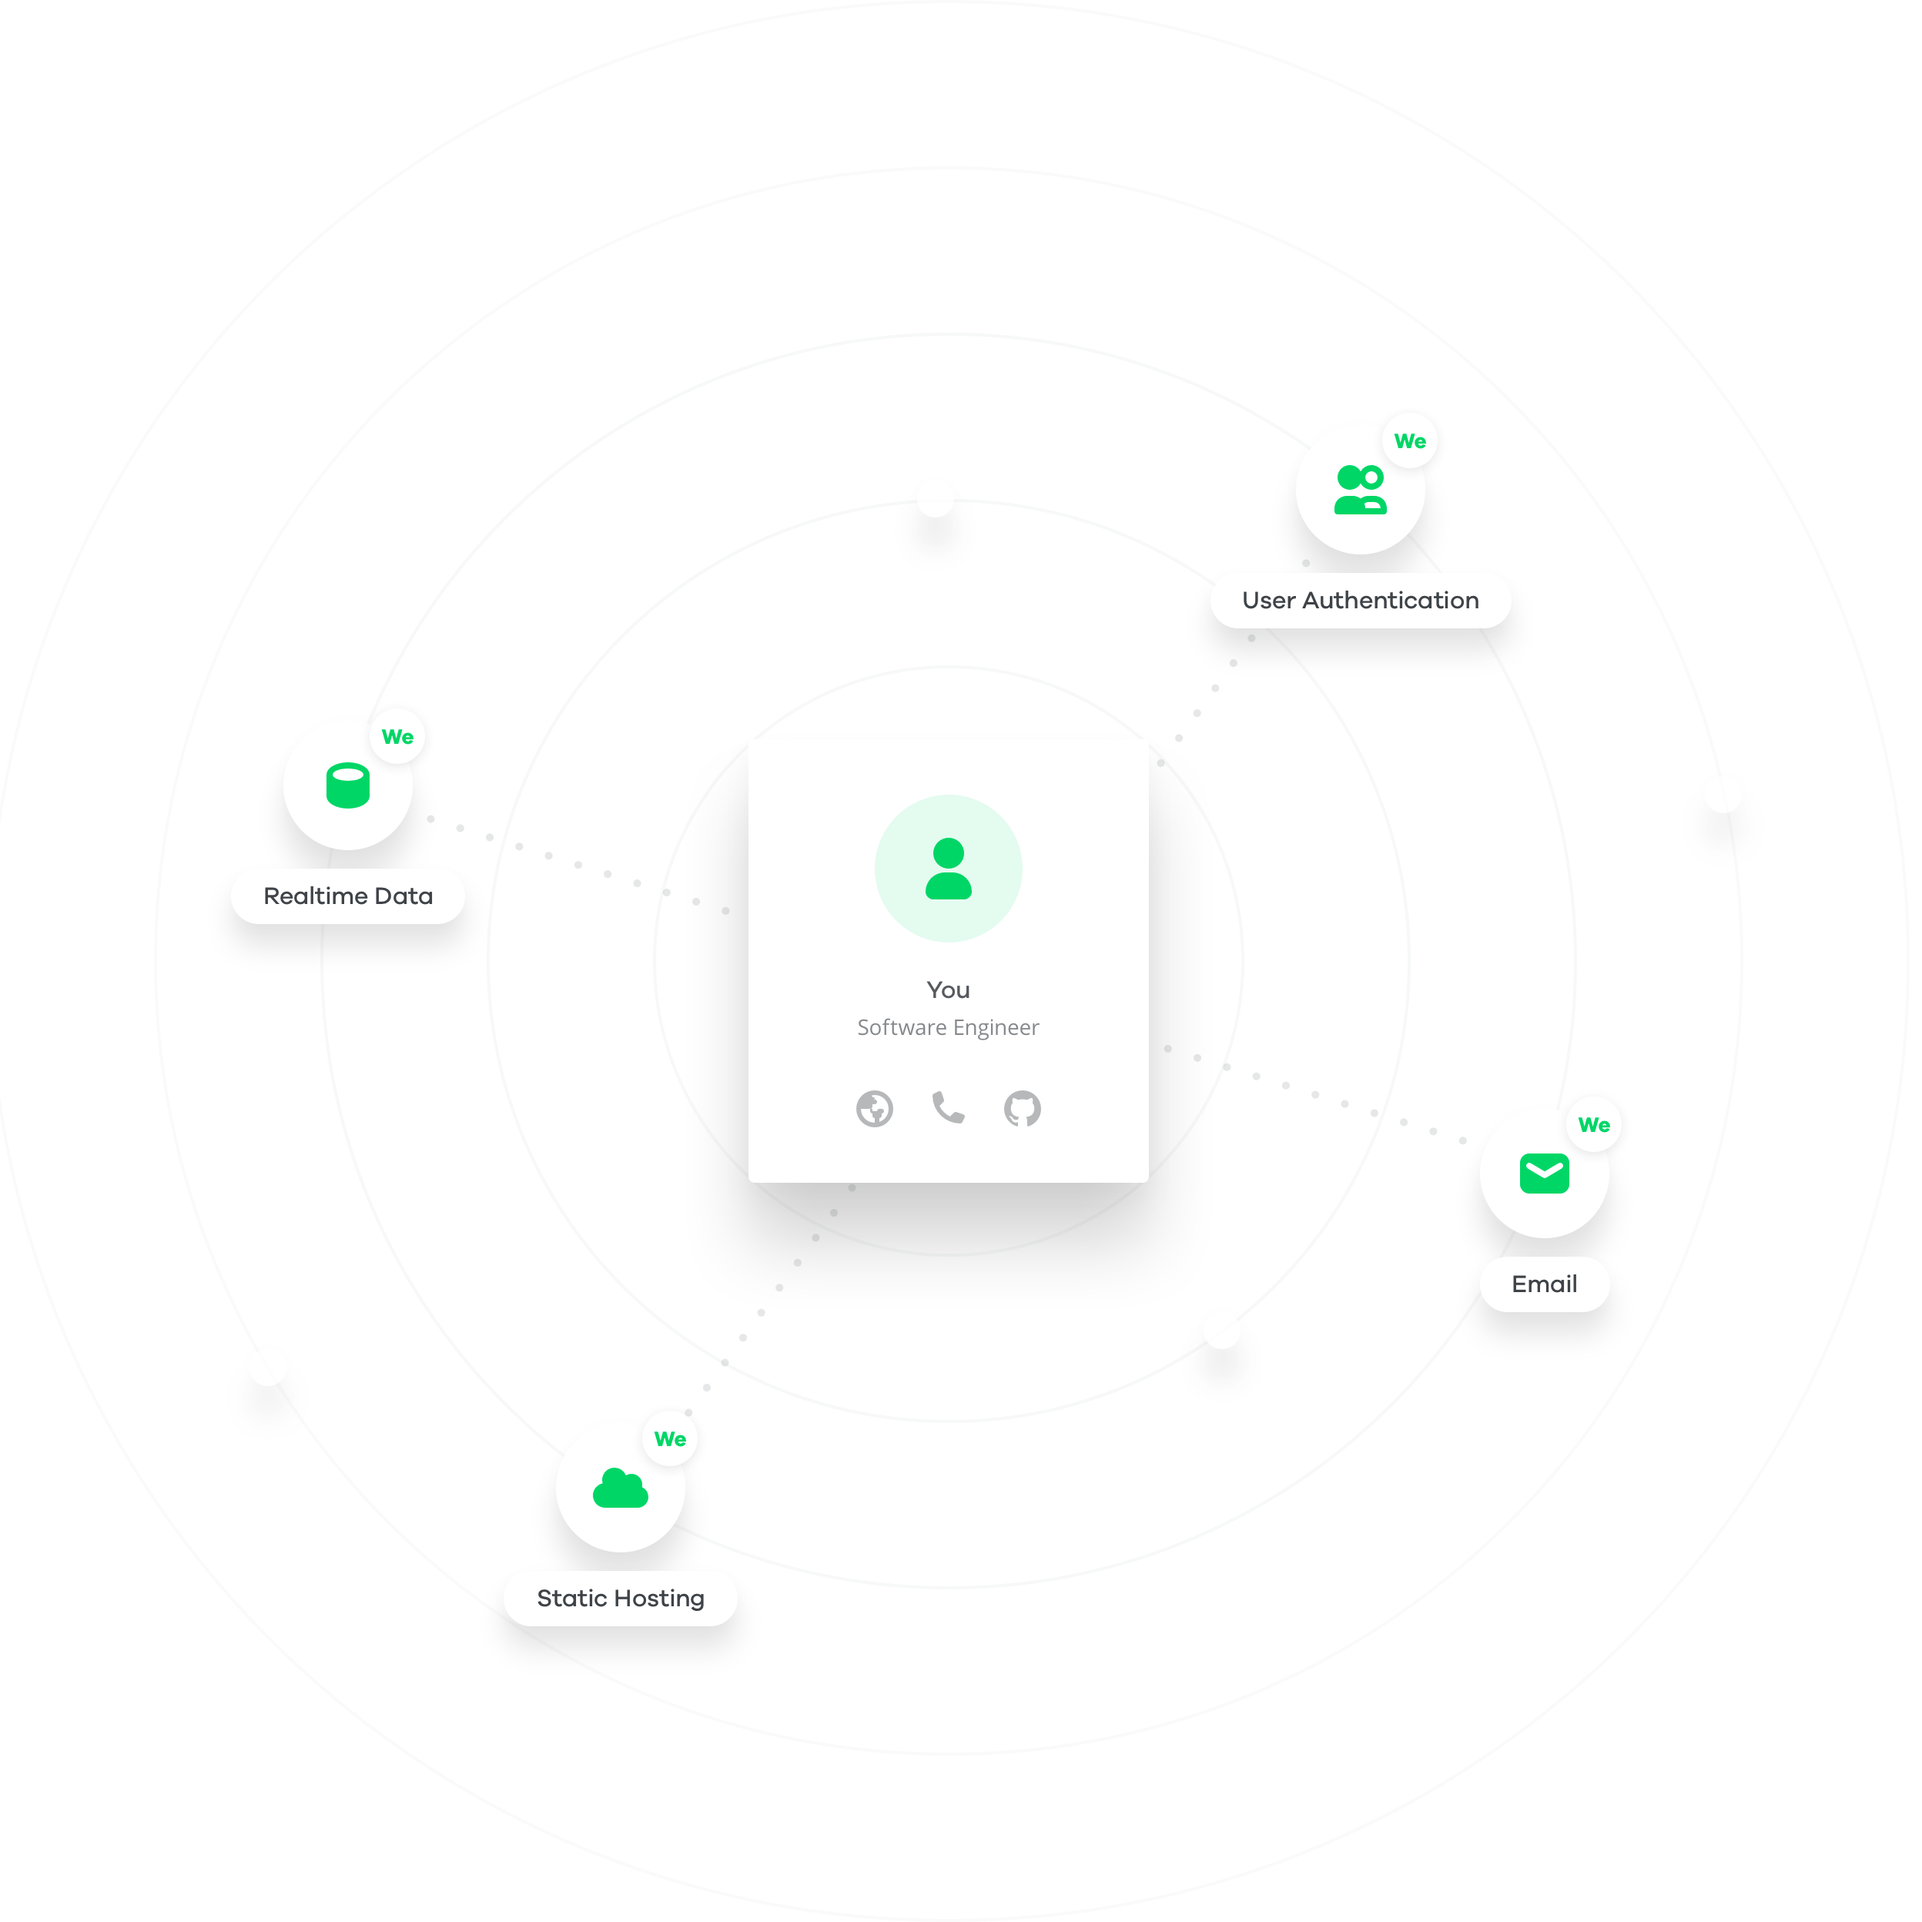
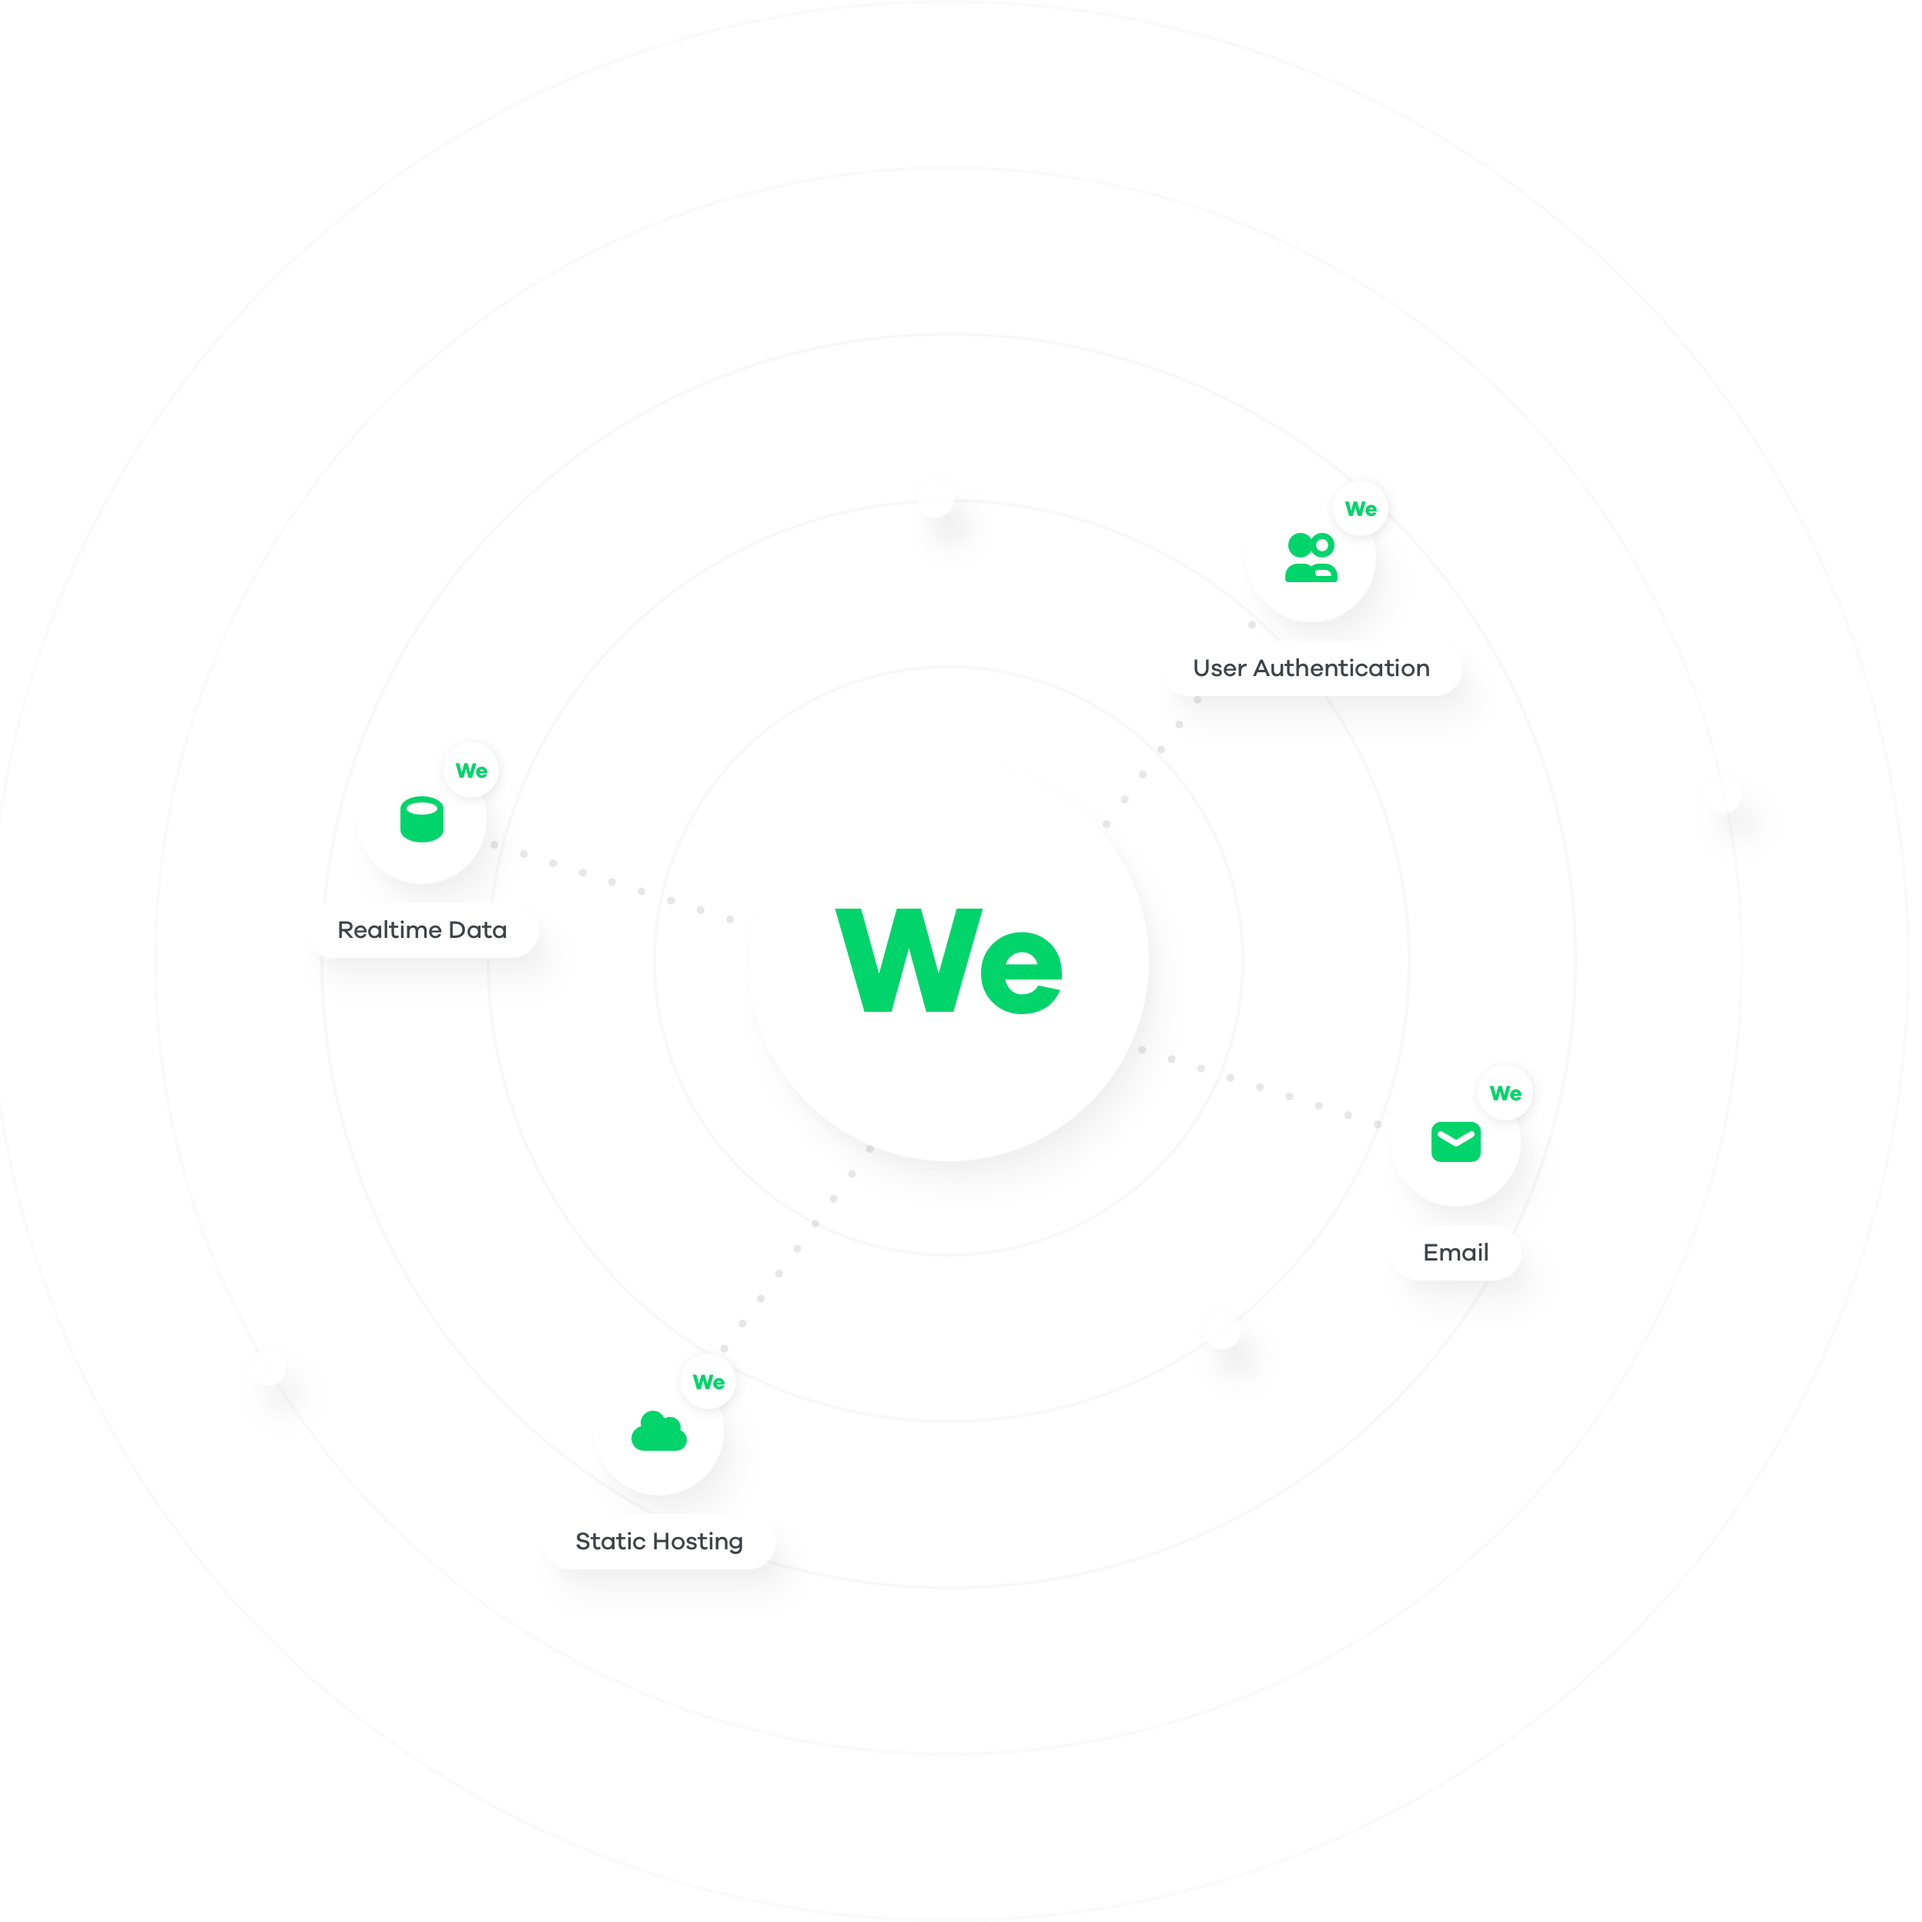
Changes some colors and Improves form validation

diff --git a/src/scripts/home/main.js b/src/scripts/home/main.js
@@ -59,28 +59,48 @@ $(document).ready(function() {
             emailInput.addClass('error');
             emailFeedback.addClass('active');
             emailFeedback.text('*Please enter an email address.');
-        }
-        else if (!isValidEmailAddress(emailInput.val())) {
-            emailInput.addClass('error');
-            emailFeedback.addClass('active');
-            emailFeedback.text('*Please enter a full email address, including the ‘@’..');
-        }
-        else {
-            emailInput.val('');
-            emailInput.removeClass('error');
-            emailFeedback.removeClass('active');
-            emailFeedback.text('');
+        } else {
+            if (!emailHasAt(emailInput.val())) {
+                emailInput.addClass('error');
+                emailFeedback.addClass('active');
+                emailFeedback.text('*Please enter a full email address, including the ‘@’..');
+            } else {
+                if (!emailHasDomain(emailInput.val())) {
+                    emailInput.addClass('error');
+                    emailFeedback.addClass('active');
 
-            isValid = true;
+                    var _email = emailInput.val();
+                    var _split = _email.split('@');
+                    var _domain = _split[1];
+
+                    if(_domain == "") {
+                        emailFeedback.text('*Do not forget the part after the @.');
+                    } else {
+                        emailFeedback.text('*This email address contain an invalid domain name \'' + _domain + '\'');
+                    }
+                } else {
+                    emailInput.val('');
+                    emailInput.removeClass('error');
+                    emailFeedback.removeClass('active');
+                    emailFeedback.text('');
+
+                    isValid = true;
+                }
+            }
         }
 
         return isValid;
     }
 
-    function isValidEmailAddress(emailAddress) {
-        var pattern = /^([a-z\d!#$%&'*+\-\/=?^_`{|}~\u00A0-\uD7FF\uF900-\uFDCF\uFDF0-\uFFEF]+(\.[a-z\d!#$%&'*+\-\/=?^_`{|}~\u00A0-\uD7FF\uF900-\uFDCF\uFDF0-\uFFEF]+)*|"((([ \t]*\r\n)?[ \t]+)?([\x01-\x08\x0b\x0c\x0e-\x1f\x7f\x21\x23-\x5b\x5d-\x7e\u00A0-\uD7FF\uF900-\uFDCF\uFDF0-\uFFEF]|\\[\x01-\x09\x0b\x0c\x0d-\x7f\u00A0-\uD7FF\uF900-\uFDCF\uFDF0-\uFFEF]))*(([ \t]*\r\n)?[ \t]+)?")@(([a-z\d\u00A0-\uD7FF\uF900-\uFDCF\uFDF0-\uFFEF]|[a-z\d\u00A0-\uD7FF\uF900-\uFDCF\uFDF0-\uFFEF][a-z\d\-._~\u00A0-\uD7FF\uF900-\uFDCF\uFDF0-\uFFEF]*[a-z\d\u00A0-\uD7FF\uF900-\uFDCF\uFDF0-\uFFEF])\.)+([a-z\u00A0-\uD7FF\uF900-\uFDCF\uFDF0-\uFFEF]|[a-z\u00A0-\uD7FF\uF900-\uFDCF\uFDF0-\uFFEF][a-z\d\-._~\u00A0-\uD7FF\uF900-\uFDCF\uFDF0-\uFFEF]*[a-z\u00A0-\uD7FF\uF900-\uFDCF\uFDF0-\uFFEF])\.?$/i;
+    function emailHasAt(emailAddress) {
+        var pattern = new RegExp(/^[+a-zA-Z0-9._-]+@/i);
         return pattern.test(emailAddress);
-    };
+    }
+
+    function emailHasDomain(emailAddress) {
+        var pattern = new RegExp(/^[+a-zA-Z0-9._-]+@[a-zA-Z0-9.-]+\.[a-zA-Z]{2,4}$/i);
+        return pattern.test(emailAddress);
+    }
 
     function closeModal() {
         $('.modal').removeClass('active');

diff --git a/src/styles/home/_view-4.scss b/src/styles/home/_view-4.scss
@@ -6,10 +6,66 @@
 
 #view-4 .giant {
 	position: absolute;
-	left: 0;
+	left: 50%;
+
 	top: 0;
 	z-index: 1;
-	width: 100%;
+	text-align: center;
+
+	@media (min-width: 320px) {
+		-webkit-transform: translateX(-50%);
+    	transform: translateX(-50%);
+	}
+
+	@media (min-width: 480px) {
+		-webkit-transform: translateX(-50%);
+    	transform: translateX(-50%);
+	}
+
+	@media (min-width: 600px) {
+		-webkit-transform: translateX(-50%);
+    	transform: translateX(-50%);
+	}
+
+	@media (min-width: 720px) {
+		-webkit-transform: translateX(-50%);
+    	transform: translateX(-50%);
+	}
+
+	@media (min-width: 840px) {
+		-webkit-transform: translateX(-49%);
+    	transform: translateX(-49%);
+	}
+
+	@media (min-width: 960px) {
+		-webkit-transform: translateX(-42.5%);
+    	transform: translateX(-42.5%);
+	}
+
+	@media (min-width: 1024px) {
+		-webkit-transform: translateX(-50%);
+    	transform: translateX(-50%);
+	}
+
+	@media (min-width: 1280px) {
+		-webkit-transform: translateX(-50%);
+    	transform: translateX(-50%);
+	}
+
+	@media (min-width: 1440px) {
+		-webkit-transform: translateX(-52%);
+    	transform: translateX(-52%);
+	}
+
+	@media (min-width: 1600px) {
+		-webkit-transform: translateX(-52%);
+    	transform: translateX(-52%);
+	}
+
+	@media (min-width: 1920px) {
+		-webkit-transform: translateX(-55%);
+    	transform: translateX(-55%);
+	}
 }
 
 #view-4 .giant span {
@@ -48,7 +104,6 @@
 		font-size: 258px;
 		line-height: 258px;
 		top: -236px;
-		left: 40px;
 		text-align: left;
 	}
 
@@ -61,38 +116,38 @@
 	@media (min-width: 960px) {
 		font-size: 360px;
 		line-height: 360px;
-		top: -245px;
+		top: -247px;
 	}
 
 	@media (min-width: 1024px) {
 		font-size: 386px;
 		line-height: 386px;
-		top: -259px;
+		top: -260px;
 	}
 
 	@media (min-width: 1280px) {
 		font-size: 404px;
 		line-height: 404px;
-		top: -255px;
+		top: -268px;;
 	}
 
 	@media (min-width: 1440px) {
 		font-size: 517px;
 		line-height: 517px;
 		left: 20px;
-		top: -294px;
+		top: -312px;
 	}
 
 	@media (min-width: 1600px) {
 		font-size: 577px;
 		line-height: 577px;
-		top: -341px;
+		top: -363px;
 	}
 
 	@media (min-width: 1920px) {
 		font-size: 648px;
 		line-height: 648px;
-		top: -377px;
+		top: -414px;
 	}
 }
 

diff --git a/src/styles/home/_view-6.scss b/src/styles/home/_view-6.scss
@@ -1,5 +1,5 @@
 #view-6 {
-	background-color: $theme;
+	background-color: rgba($primary, .02);
 	position: relative;
 	
 	@media (min-width: 320px) {
@@ -25,8 +25,8 @@
 	margin: 0;
 	padding: 0;
 
-	text-shadow: 0 40px 50px rgba(14, 20, 26, 0.1);
-	color: $theme;
+	text-shadow: 0 40px 50px rgba(14, 20, 26, 0.05);
+	color: $auxiliary;
 	font-family: 'galano-bold', sans-serif;
 	font-size: 498px;
 	line-height: 360px;
@@ -87,7 +87,7 @@
 
 #view-6 .info .info__title h2 {
 	font-family: 'galano-medium', sans-serif;
-	color: $white;
+	color: rgba($primary, .9);
 	position: relative;
 	top: -1px;
 	letter-spacing: -0.008em;
@@ -167,7 +167,7 @@
 
 #view-6 .info .info__question h5 {
     font-family: 'Open Sans', sans-serif;
-    color: #fff;
+    color: rgba($primary, .9);
     position: relative;
     top: -4px;
     letter-spacing: -0.02em;
@@ -196,7 +196,7 @@
 }
 
 #view-6 .info .info__question h5 .phone {
-	color: #fff !important;
+	color: rgba($primary, .9) !important;
 	
 	@media (min-width: 320px) {
 		display: block;

diff --git a/src/styles/home/_view-1.scss b/src/styles/home/_view-1.scss
@@ -397,7 +397,7 @@
 
 #subscribe form .form-validation {
 	margin: 0;
-	padding: 0;
+	padding: 0 4px;
 
 	height: ($baseline * 3);
 	color: #ff4040;
@@ -407,7 +407,10 @@
 	font-family: 'Open Sans', sans-serif;
 
 	text-align: left;
-	width:100%;
+	width: calc(100% - 8px);
+	white-space: nowrap;
+	overflow: hidden;
+	text-overflow: ellipsis;
 }
 
 #subscribe form .form-validation.active {
@@ -438,7 +441,7 @@
 
 #subscribe form small {
 	margin: ($baseline * 1) 0 0;
-	padding: 0;
+	padding: 0 4px;
 	display: block;
 
 	height: ($baseline * 3);
@@ -448,5 +451,5 @@
 	font-family: 'Open Sans', sans-serif;
 
 	text-align: left;
-	width:100%;
+	width: calc(100% - 8px);
 }

diff --git a/src/pages/index.html b/src/pages/index.html
@@ -178,7 +178,7 @@
 										<span class="two">Deploys current project or container;</span>
 									</p>
 									<p class="no-margin"><strong>You</strong> at <strong>WeDeploy</strong> in <strong>~</strong></p>
-									<p>$ <strong>we</strong> create |</p>
+									<p>$ <strong>we</strong> deploy |</p>
 								</div>
 							</div>
 						</div>
@@ -452,7 +452,7 @@
 		</div>
 
 		<div class="info__button">
-			<button class="open-modal btn btn--inverse-theme btn-block">Request an Invite</button>
+			<button class="open-modal btn btn--theme btn-block">Request an Invite</button>
 		</div>
 
 		<div class="info__question">

diff --git a/src/styles/home/_terminal.scss b/src/styles/home/_terminal.scss
@@ -337,11 +337,11 @@
 	margin-left: ($unit * 5);
 	margin-top: ($baseline * 2);
 
-	background: $theme;
+	background: rgba($primary, .2);
 	flex: 0 1 auto;
 }
 #browser .browser__project-item .project-item__icon.default {
-	background: $theme;
+	background: rgba($primary, .2);
 }
 
 #browser .browser__project-item .project-item__icon span {
